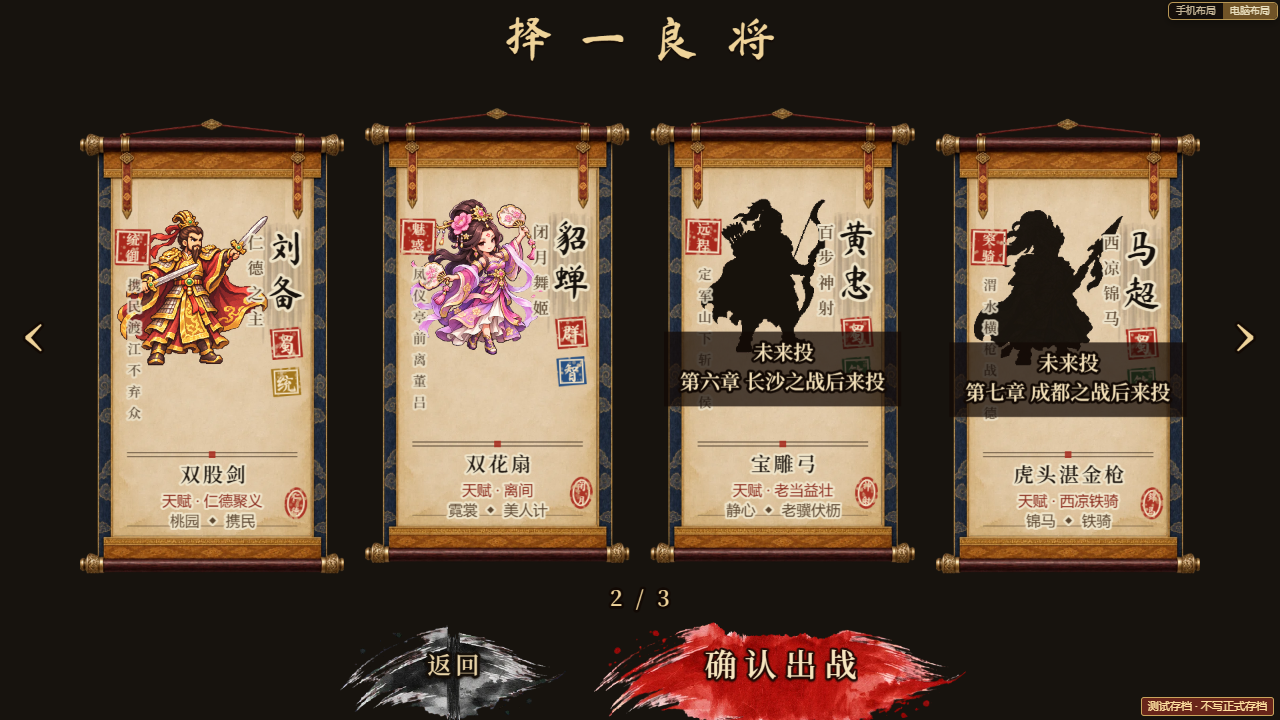
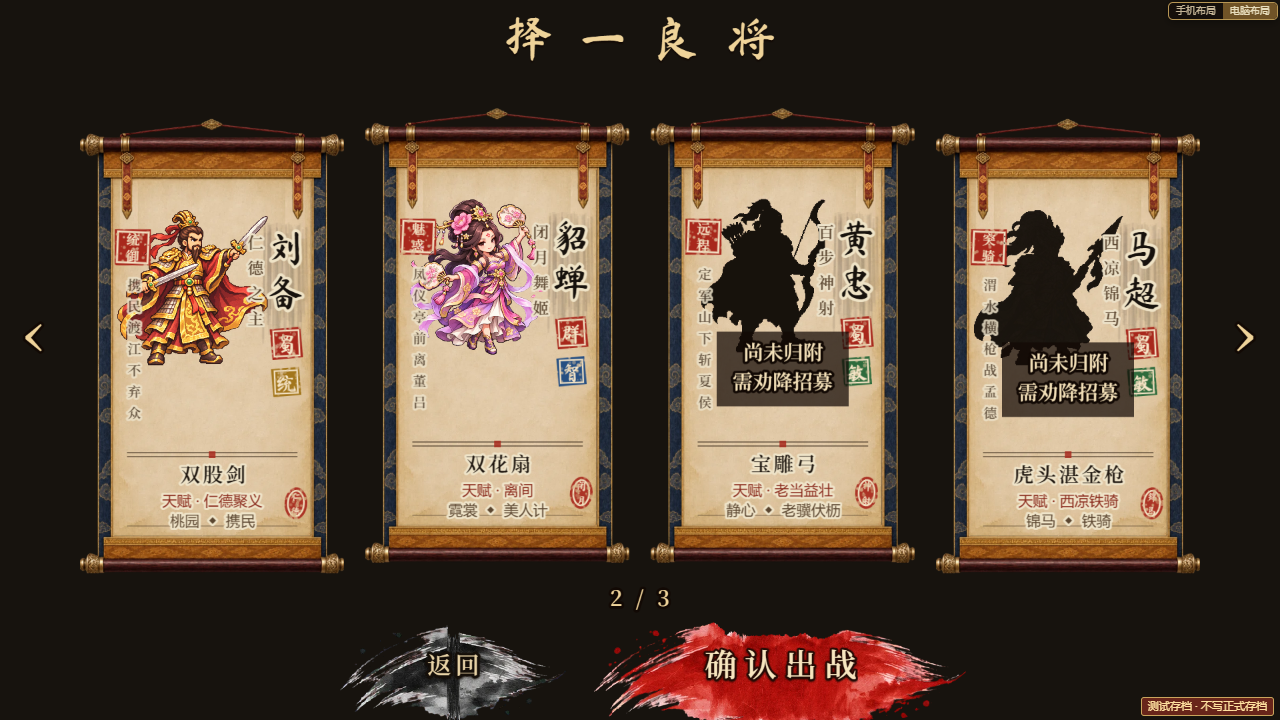
武将解锁：锁定提示不透露章节，统一「尚未归附 · 需劝降招募」（用户：「不用告诉哪一章来投，只告诉，需要去劝降招募」）
- data/heroUnlocks.ts：去掉每位武将的章节提示，改通用 LOCKED_HINT（尚未归附 · 需劝降招募）/ LOCKED_TITLE / LOCKED_HOW / LOCKED_TAG
- 主页选将剪影、主公选择提示、武将谱名册（「未归附」）与锁定页都用通用提示，不写章节 / 关卡 / 事件
- 来投节点、本档来投、「新武将 · 来投」揭幕都不变
- test-hero-unlocks：锁定提示改查通用文案、且不含章节 / 关卡 / 事件字样，12/12；截图 picker-silhouettes 等重拍

Changed region(s): [[0.5, 0.4583, 0.9375, 0.5806]]

diff --git a/src/data/heroUnlocks.ts b/src/data/heroUnlocks.ts
@@ -5,33 +5,36 @@ import type { CharacterId } from './characters';
  * 开局只有桃园三兄弟 + 赵云；其余 8 位随主线「来投」。条件在 systems/HeroUnlocks.ts（按存档进度判定，不看卷轴是否播放）。
  * 用户定：诸葛亮第一章之后就来投（早年「卧龙」书信，第五章三顾茅庐改为「正式出山拜为军师」，只是剧情）；
  *        貂蝉「打完吕布来」——第三章章末白门楼，或天下地图挑战「三英战吕布」先赢了就先来。
- * 文案：hint 写在锁定剪影下；揭幕卡用 kicker / title / lines（每行一句，约 20 字以内）。
+ * 文案：锁定剪影下只写通用提示 LOCKED_HINT（用户 11-19：「不用告诉哪一章来投，只告诉，需要去劝降招募」——不写章节 / 关卡 / 事件）；
+ * 揭幕卡用 kicker / epithet / lines（每行一句，约 20 字以内）。
  */
 export const STARTER_HEROES: readonly CharacterId[] = ['liubei', 'guanyu', 'zhangfei', 'zhaoyun'];
 
+/** 锁定剪影下的通用提示（不透露在哪一章来投）。 */
+export const LOCKED_HINT = '尚未归附 · 需劝降招募';
+export const LOCKED_TITLE = '尚未归附', LOCKED_HOW = '需劝降招募', LOCKED_TAG = '未归附';
 export interface HeroJoinInfo {
-  /** 锁定剪影下的提示。 */ hint: string;
   /** 揭幕卡顶部小字（什么时候、在哪）。 */ kicker: string;
   /** 称号（名字前的小字）。 */ epithet: string;
   /** 来投那一刻的两三句（揭幕卡正文）。 */ lines: readonly string[];
   /** 保底来投时换的正文（黄忠：长沙负伤遁去后伤愈来投）。 */ fallbackLines?: readonly string[];
 }
 export const HERO_JOIN: Readonly<Partial<Record<CharacterId, HeroJoinInfo>>> = {
-  zhuge: { hint: '第一章通关后来投', kicker: '第一章 · 黄巾平定', epithet: '卧龙',
+  zhuge: { kicker: '第一章 · 黄巾平定', epithet: '卧龙',
     lines: ['广宗告捷，营中收到一封南阳隆中的书信。', '寥寥数语，竟把黄巾余部的去向一一料中。', '落款「卧龙」——愿以客卿之身，随军参谋。'] },
-  diaochan: { hint: '击败吕布后来投（白门楼或三英战吕布）', kicker: '吕布败亡', epithet: '闭月',
+  diaochan: { kicker: '吕布败亡', epithet: '闭月',
     lines: ['吕布已败，貂蝉素衣出城，拜于皇叔马前。', '「妾身一介女流，愿以双扇，随军效力。」'] },
-  huangyueying: { hint: '第五章 赤壁之战后来投', kicker: '第五章 · 赤壁之后', epithet: '巧思',
+  huangyueying: { kicker: '第五章 · 赤壁之后', epithet: '巧思',
     lines: ['赤壁鏖兵方罢，一辆木车送到营前。', '车上连弩、木牛，皆出黄氏月英之手。', '「夫君在江东借风，妾身便来造弩。」'] },
-  sunshangxiang: { hint: '第五章 孙刘联姻后来投', kicker: '第五章 · 孙刘联姻', epithet: '弓腰姬',
+  sunshangxiang: { kicker: '第五章 · 孙刘联姻', epithet: '弓腰姬',
     lines: ['江陵既下，孙权进妹固好。', '夫人才捷刚猛，侍婢百余人皆亲执刀。', '「皇叔，往后战阵之事，妾身也要去！」'] },
-  weiyan: { hint: '第六章 魏延献城后来投', kicker: '第六章 · 长沙', epithet: '镇北',
+  weiyan: { kicker: '第六章 · 长沙', epithet: '镇北',
     lines: ['长沙城门大开，魏延提韩玄首级来献。', '「某魏文长，愿为将军前驱！」'] },
-  huangzhong: { hint: '第六章 长沙之战后来投', kicker: '第六章 · 长沙', epithet: '老当益壮',
+  huangzhong: { kicker: '第六章 · 长沙', epithet: '老当益壮',
     lines: ['长沙城下，老将黄忠拜伏于地。', '「忠年近六旬，今日方遇明主。」'],
     fallbackLines: ['长沙一战负伤遁去的老将黄忠，伤愈来投。', '「定军山下，还须老夫这张弓。」'] },
-  pangtong: { hint: '第七章 入蜀（葭萌关）后来投', kicker: '第七章 · 入蜀', epithet: '凤雏',
+  pangtong: { kicker: '第七章 · 入蜀', epithet: '凤雏',
     lines: ['凤雏庞统，随军西进入蜀。', '「卧龙、凤雏，两人得一可安天下——主公两人俱得。」'] },
-  machao: { hint: '第七章 成都之战后来投', kicker: '第七章 · 成都', epithet: '锦马超',
+  machao: { kicker: '第七章 · 成都', epithet: '锦马超',
     lines: ['马超自汉中来投，屯兵成都城北。', '城中震怖，刘璋遂开城出降。'] },
 };

diff --git a/src/ui/HomeHeroPicker.ts b/src/ui/HomeHeroPicker.ts
@@ -5,7 +5,7 @@ import {HeroWarCard} from './HeroWarCard';
 import {CHARACTERS} from '../data/characters';
 import {homeCommand} from './HomeCommand';
 import {heroUnlocked} from '../systems/HeroUnlocks';
-import {HERO_JOIN} from '../data/heroUnlocks';
+import {LOCKED_HINT,LOCKED_TITLE,LOCKED_HOW} from '../data/heroUnlocks';
 /** 每页 4 名武将（电脑一行 4 张、手机 2×2），武将多于 4 名时用 ‹ › 翻页。
  *  2026-11-17 用户「这里ui也需要调整字体美术不统一」（电脑版）：一个大标题（与主页标题同字体同金色）、提示移到标题下（象牙白描边、无暗底、短句）、
  *  页码只写「1 / 3」放在卷轴与按钮之间；字体统一 TITLE / HEADING / FONT 三档，金 #efd399 / 象牙 #e8d8b2，描边 #120904。 */
@@ -42,7 +42,7 @@ export class HomeHeroPicker{
  }
  /** 择主公：主公规则生效、且这一下会定下（或改选）主公时，要点两次「确认出战」。 */
  private tryConfirm():void{const c=CHARACTERS[this.order[this.candidate]];if(!c)return;
-  if(!heroUnlocked(c.id)){this.hint?.setText(`${c.name} · ${HERO_JOIN[c.id]?.hint??'尚未来投'}`).setVisible(true);return;}
+  if(!heroUnlocked(c.id)){this.hint?.setText(`${c.name} · ${LOCKED_HINT}`).setVisible(true);return;}
   if(!canPickLord(c.id)){this.hint?.setText(this.lockText()).setVisible(true);return;}
   const decides=lordRules()&&(!lordHero()||!lordFinal());
   if(decides&&this.armed!==this.candidate){this.armed=this.candidate;this.hint?.setColor(D?GOLD:'#ffd98a').setText(D?`再点一次「确认出战」· 定 ${c.name} 为主公，选定后不可更改`:`主公选定后本存档不可更改 · 再点一次「确认出战」，以 ${c.name} 为主公`).setVisible(true);return;}
@@ -52,11 +52,11 @@ export class HomeHeroPicker{
  open(index:number):void{this.order=CHARACTERS.map((c,i)=>({i,u:heroUnlocked(c.id)})).sort((a,b)=>Number(b.u)-Number(a.u)||a.i-b.i).map(o=>o.i); /* 打开时按当前解锁重排 */index=Math.max(0,this.order.indexOf(index));if(!heroUnlocked(CHARACTERS[this.order[index]].id))index=0;this.candidate=index;this.page=Math.floor(index/PER);this.root.setVisible(true);this.refreshArt();}
  refreshArt(_animate=false):void{
   this.cards.forEach((c,i)=>{const on=Math.floor(i/PER)===this.page;c.root.setVisible(on);c.hit.setVisible(on);if(c.hit.input)c.hit.input.enabled=on;if(on){const id=CHARACTERS[this.order[i]].id,locked=!heroUnlocked(id);c.setHero(this.order[i]);c.setSelected(i===this.candidate);c.root.setAlpha(locked?1:canPickLord(id)?1:.4);
-   // 没来投：立绘压成墨色剪影 + 来投提示
-   if(locked)c.art.setTintFill(0x17120c);else c.art.clearTint();this.lockTexts[i]?.setName('pick-lock-'+id).setText(locked?'未来投\n'+(HERO_JOIN[id]?.hint??''):'').setVisible(locked);}});
+   // 没归附：立绘压成墨色剪影 + 通用提示（用户：不写哪一章来投，只说需劝降招募）
+   if(locked)c.art.setTintFill(0x17120c);else c.art.clearTint();this.lockTexts[i]?.setName('pick-lock-'+id).setText(locked?LOCKED_TITLE+'\n'+LOCKED_HOW:'').setVisible(locked);}});
   if(this.armed!==this.candidate)this.armed=-1;
   const cid=CHARACTERS[this.order[this.candidate]]?.id??'zhaoyun',lock=!canPickLord(cid);
-  if(!heroUnlocked(cid)&&this.armed<0){this.hint?.setColor(D?IVORY:'#ff9a72').setText(`${CHARACTERS[this.order[this.candidate]].name} · ${HERO_JOIN[cid]?.hint??'尚未来投'}`);this.pageText?.setText(D?`${this.page+1} / ${this.pages}`:`第 ${this.page+1} / ${this.pages} 页 · 共 ${CHARACTERS.length} 将`);return;}if(this.armed<0)this.hint?.setColor(D?IVORY:'#ff9a72').setText(lock?this.lockText():lordRules()&&!lordHero()?(D?'选定即为主公 · 不可更改':'择一良将为主公 · 选定后本存档不可更改'):'');this.hint?.setVisible(!!this.hint.text);
+  if(!heroUnlocked(cid)&&this.armed<0){this.hint?.setColor(D?IVORY:'#ff9a72').setText(`${CHARACTERS[this.order[this.candidate]].name} · ${LOCKED_HINT}`);this.pageText?.setText(D?`${this.page+1} / ${this.pages}`:`第 ${this.page+1} / ${this.pages} 页 · 共 ${CHARACTERS.length} 将`);return;}if(this.armed<0)this.hint?.setColor(D?IVORY:'#ff9a72').setText(lock?this.lockText():lordRules()&&!lordHero()?(D?'选定即为主公 · 不可更改':'择一良将为主公 · 选定后本存档不可更改'):'');this.hint?.setVisible(!!this.hint.text);
   this.pageText?.setText(D?`${this.page+1} / ${this.pages}`:`第 ${this.page+1} / ${this.pages} 页 · 共 ${CHARACTERS.length} 将`);
  }
 }

diff --git a/src/ui/HeroCodexUI.ts b/src/ui/HeroCodexUI.ts
@@ -15,7 +15,7 @@ import { TACTIC_UNLOCK_SCROLLS, TEMPER, XINDE_SLOTS, getXinde, grain, respec, re
 import { LQ, lqDiamond, lqHitBox, lqPanel, lqSkin } from './LacquerKit';
 import { attrBadge } from './AttrBadge';
 import { lockedHeroes } from '../systems/HeroUnlocks';
-import { HERO_JOIN } from '../data/heroUnlocks';
+import { LOCKED_TITLE, LOCKED_HOW, LOCKED_TAG } from '../data/heroUnlocks';
 
 type Tab = 'overview' | 'attrs' | 'weapon' | 'xinde' | 'schools';
 /** 电脑版手绘素材（public/assets/ui/codex/codex_*.png）：页签三态、箭头四态、朱印、节标题牌、立绘挂轴框。 */
@@ -197,7 +197,7 @@ export class HeroCodexUI {
       const y = top + (owners.length + j) * rowH, h = rowH - 4, on = id === this.hero, nm = CHARACTERS.find(c => c.id === id)?.name ?? id;
       if (on) this.add(this.scene.add.graphics()).fillStyle(0x2a2016, .95).fillRoundedRect(lx, y, lw, h, 4).lineStyle(1, 0x8a7a5a, .9).strokeRoundedRect(lx + .5, y + .5, lw - 1, h - 1, 4);
       this.text(lx + 30, y + h / 2, nm, 15, on ? '#b8a888' : '#6f6452', true).setOrigin(0, .5);
-      this.text(lx + lw - 10, y + h / 2, '未来投', 12, '#6f6452').setOrigin(1, .5);
+      this.text(lx + lw - 10, y + h / 2, LOCKED_TAG, 12, '#6f6452').setOrigin(1, .5);
       this.add(this.scene.add.rectangle(lx, y, lw, h, 0, .001).setOrigin(0)).setName('codex-locked-' + id).setInteractive({ useHandCursor: true })
         .on('pointerdown', (_p: unknown, _x: unknown, _y: unknown, e?: Phaser.Types.Input.EventData) => { e?.stopPropagation?.(); this.hero = id as HeroKey; this.render(); });
     });
@@ -383,13 +383,13 @@ export class HeroCodexUI {
     });
   }
 
-  /** 没来投的武将：墨色剪影 + 来投提示（不显示等级 / 兵装 / 心得）。 */
+  /** 没归附的武将：墨色剪影 + 通用提示「尚未归附 · 需劝降招募」（不显示等级 / 兵装 / 心得）。 */
   private deskLocked(x: number, y: number, w: number, bottom: number): void {
-    const id = this.hero as CharacterId, c = CHARACTERS.find(h => h.id === id), info = HERO_JOIN[id], art = 'ink_hero_' + id;
+    const id = this.hero as CharacterId, c = CHARACTERS.find(h => h.id === id), art = 'ink_hero_' + id;
     this.text(x + 6, y + 4, c?.name ?? id, 28, '#b8a888', true).setName('codex-locked-name');
-    this.text(x + 6, y + 46, '尚未来投', 16, '#c9a35e', true);
-    this.text(x + 6, y + 76, info?.hint ?? '', 18, '#efd399', true).setName('codex-locked-hint');
-    this.text(x + 6, y + 112, '来投后可查看属性、本命兵器与战法心得。', 14, '#9c8c6c');
+    this.text(x + 6, y + 46, LOCKED_TITLE, 16, '#c9a35e', true);
+    this.text(x + 6, y + 76, LOCKED_HOW, 18, '#efd399', true).setName('codex-locked-hint');
+    this.text(x + 6, y + 112, '归附后可查看属性、本命兵器与战法心得。', 14, '#9c8c6c');
     if (!this.scene.textures.exists(art)) { this.scene.load.image(art, 'assets/ink-scroll/' + id + '.webp'); this.scene.load.once('filecomplete-image-' + art, () => { if (this.root.active && this.hero === id) this.render(); }); this.scene.load.start(); return; }
     const img = this.add(this.scene.add.image(x + w - 170, bottom, art).setOrigin(.5, 1)); img.setScale(Math.min(300 / img.width, (bottom - y) / img.height)).setTintFill(0x17120c).setAlpha(.92).setName('codex-locked-silhouette');
   }
